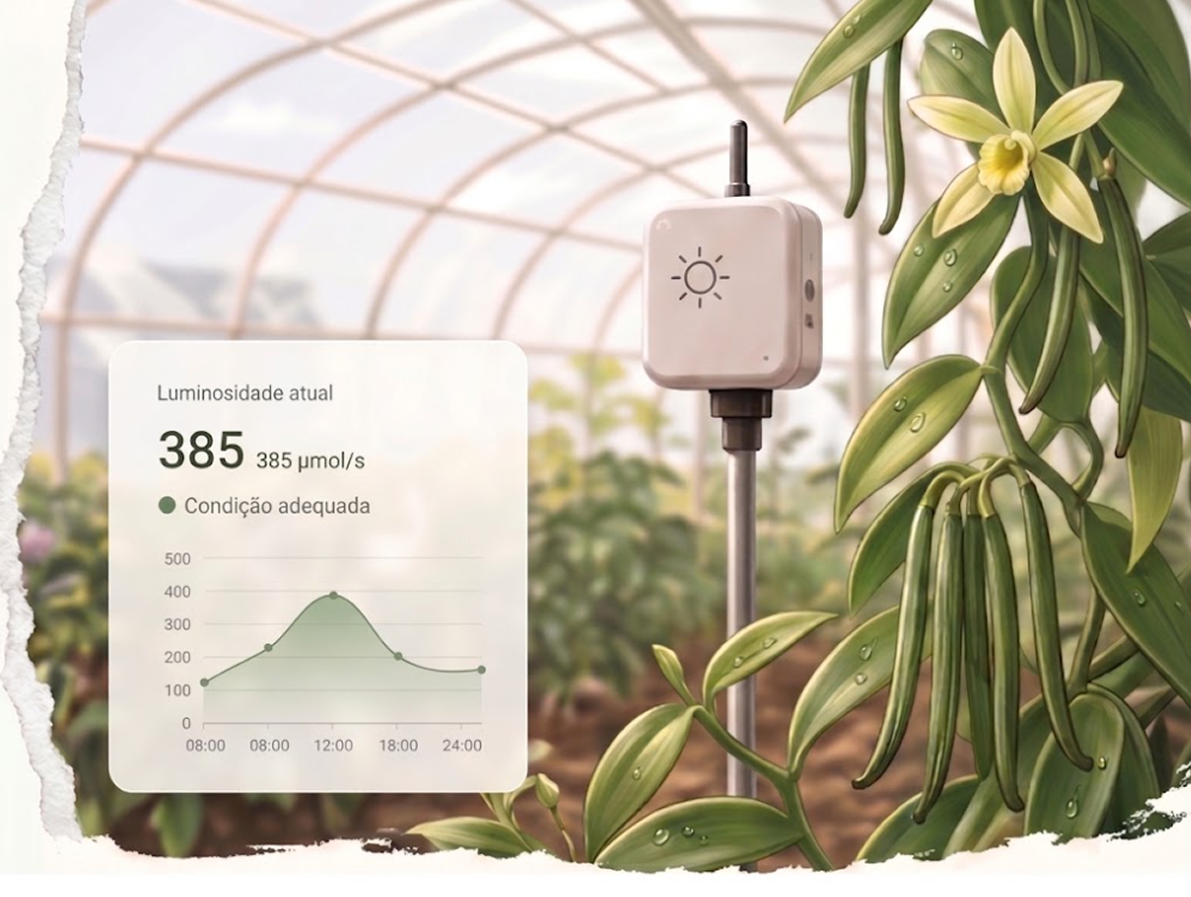
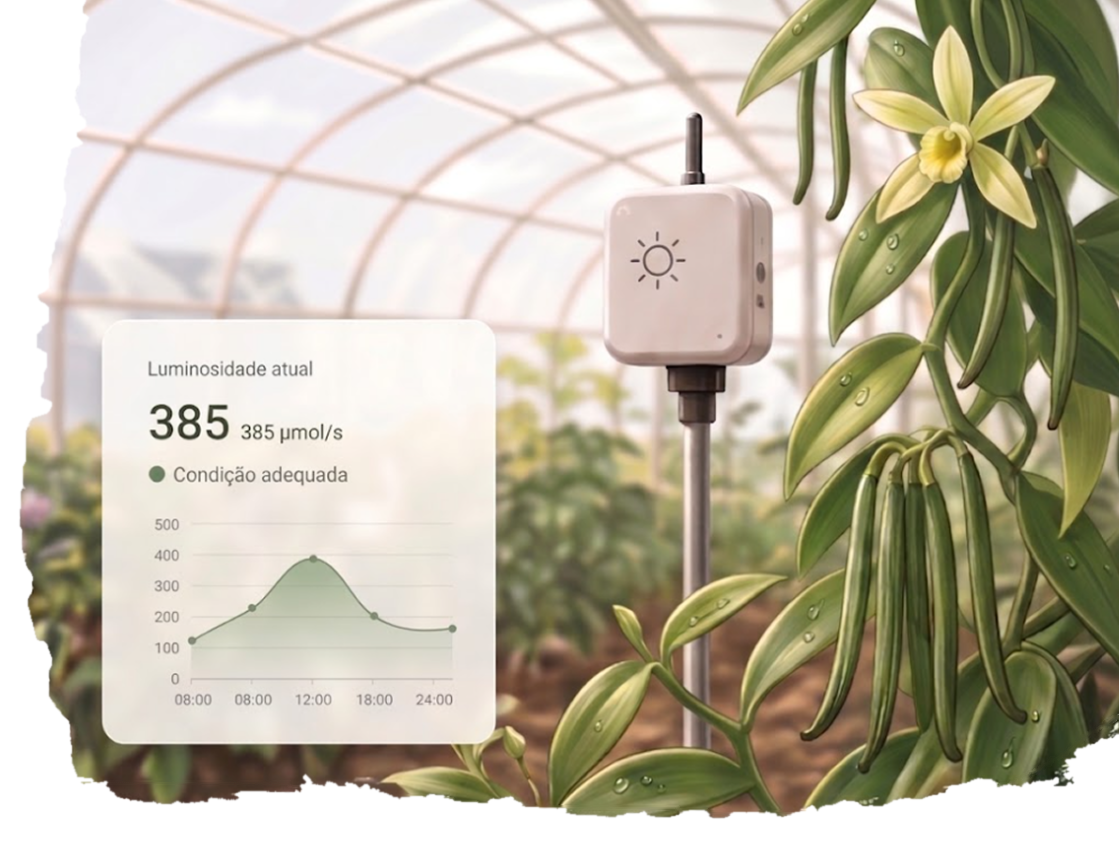
imagem home atualizada

Changed region(s): [[0.0, 0.0, 0.4558, 0.9572], [0.4861, 0.9264, 0.79, 0.9881], [0.79, 0.8646, 1.0, 0.9572]]

diff --git a/Luminou6/web/public/index.html b/Luminou6/web/public/index.html
@@ -63,7 +63,7 @@
         </a>
       </div>
     </div>
-    <img src="./assets/imgs/home.png" alt="" class="img-home" />
+    <img src="../public/imgs/home.png" alt="" class="img-home" />
   </div>
   <div class="div-sobre" id="sobre">
     <img src="./assets/imgs/bg1.png" alt="" class="img-sobre" />
